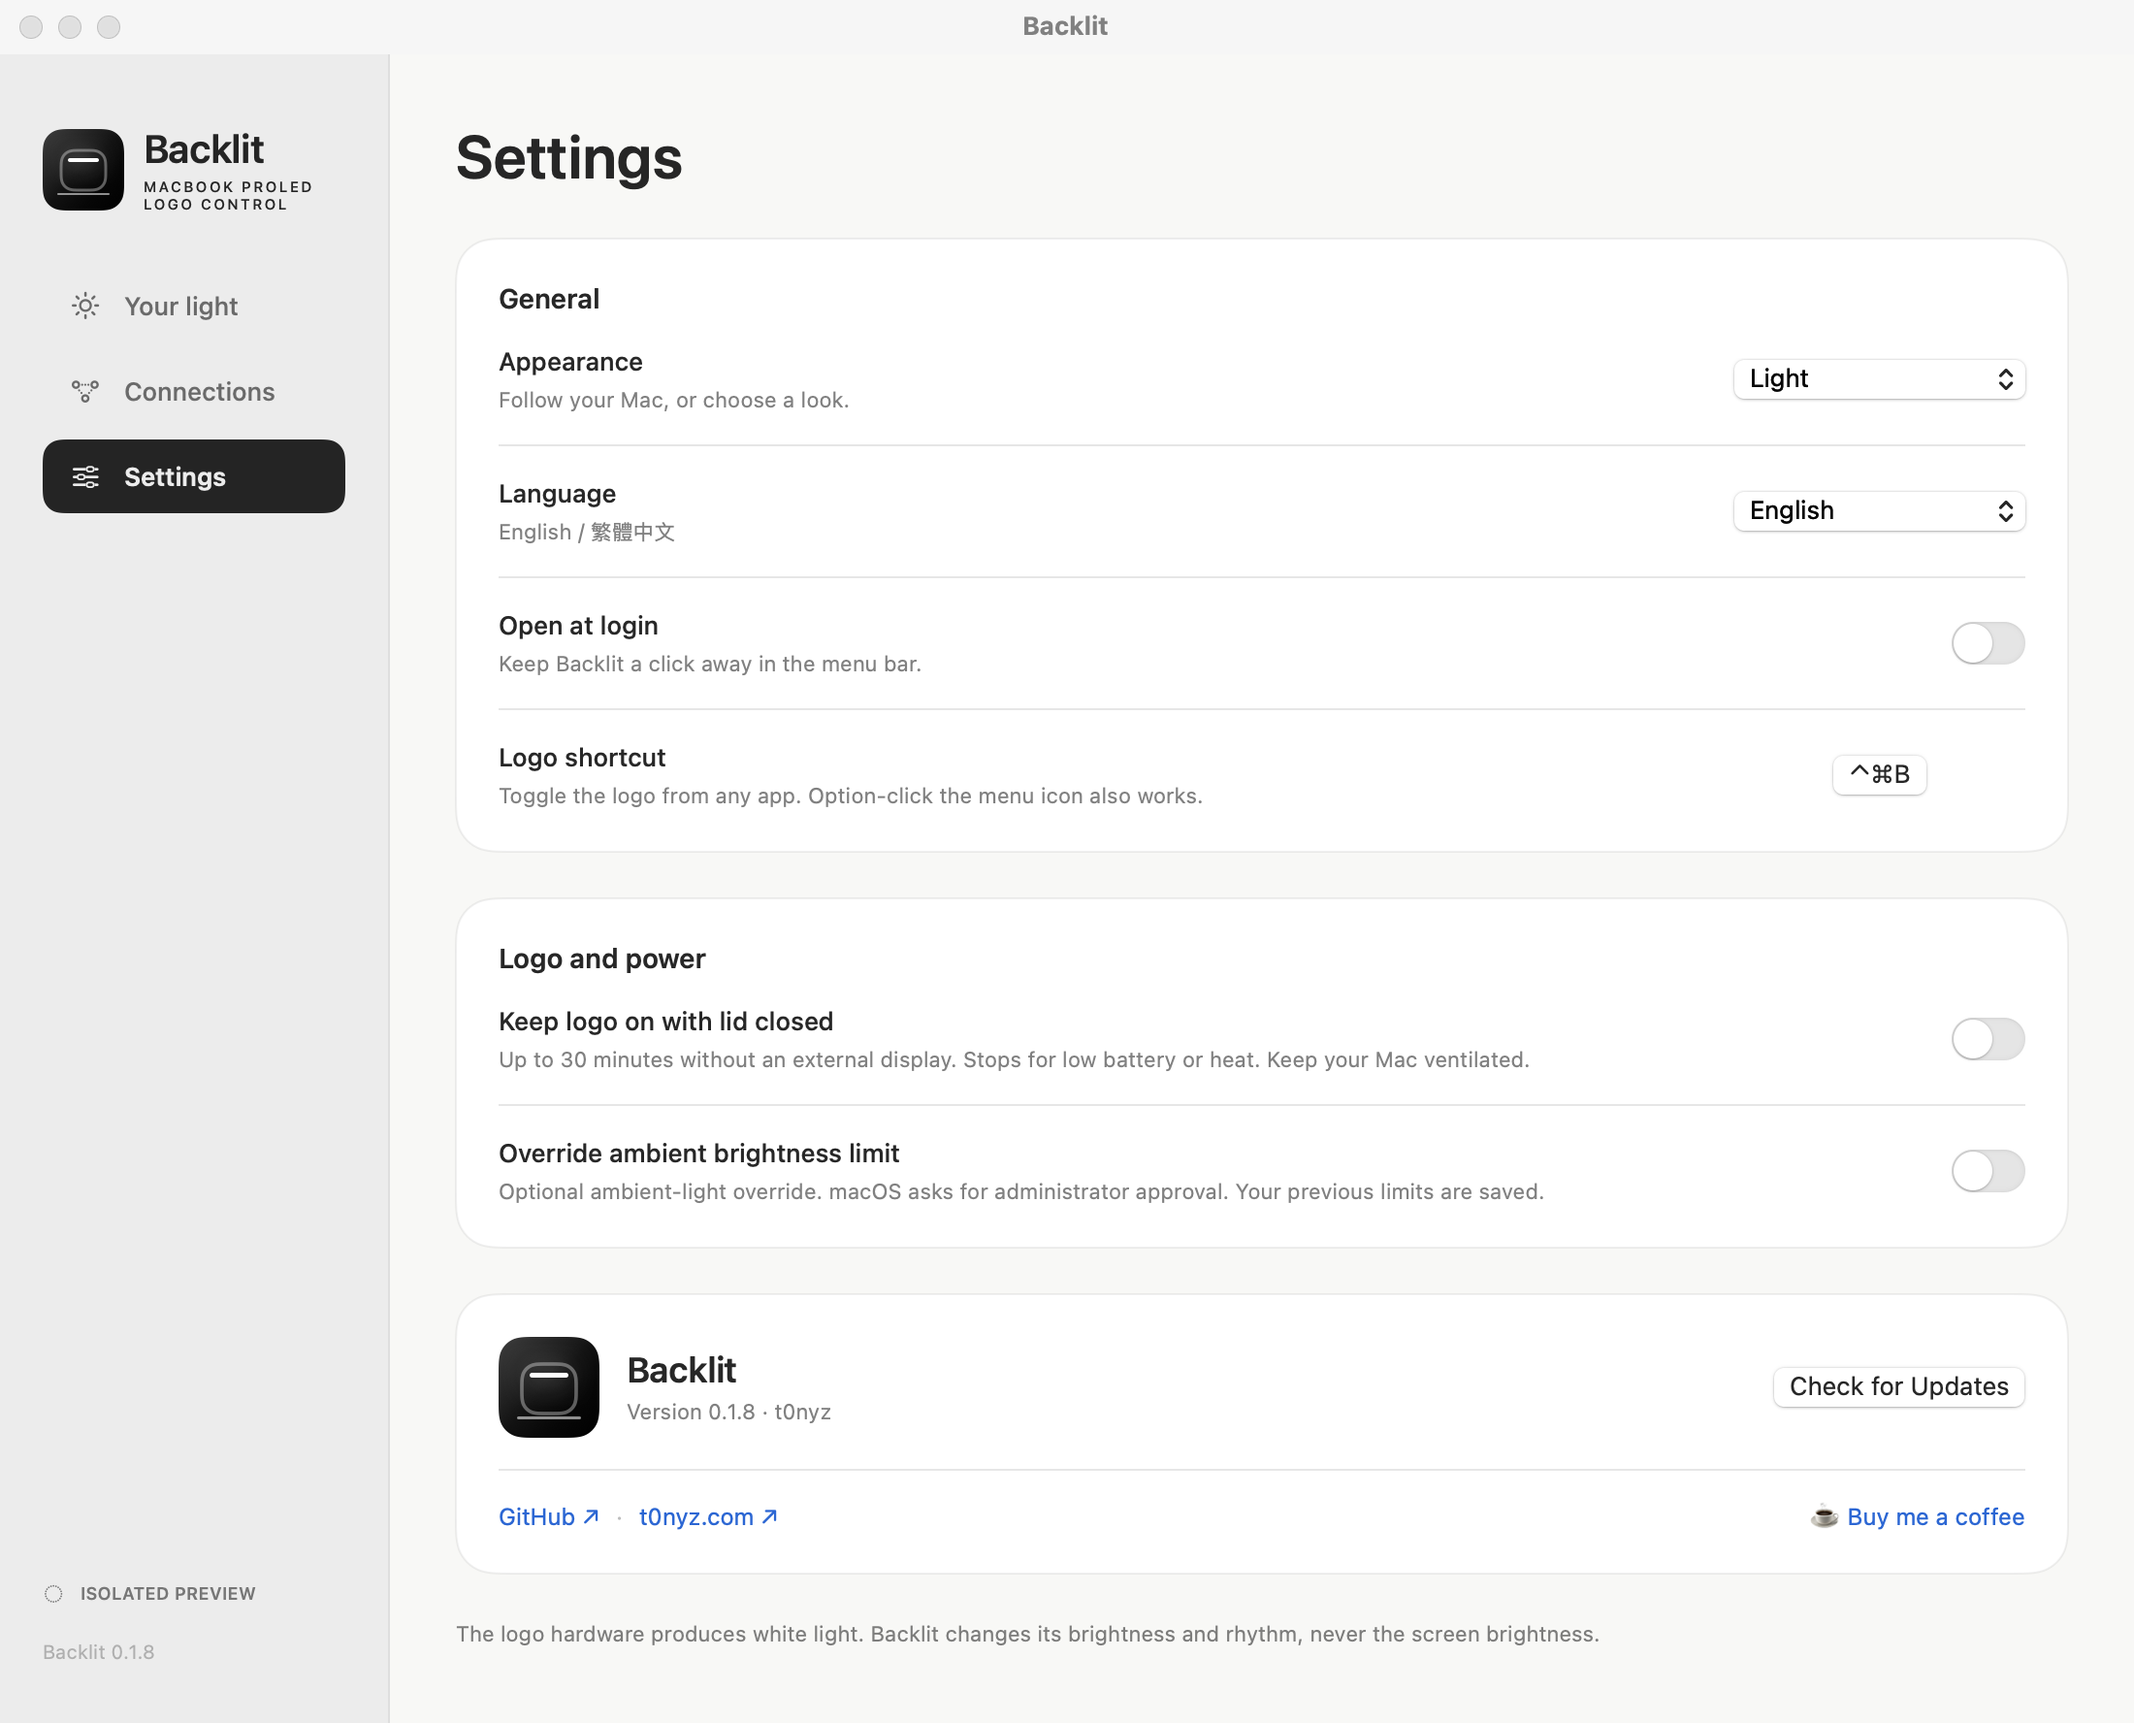
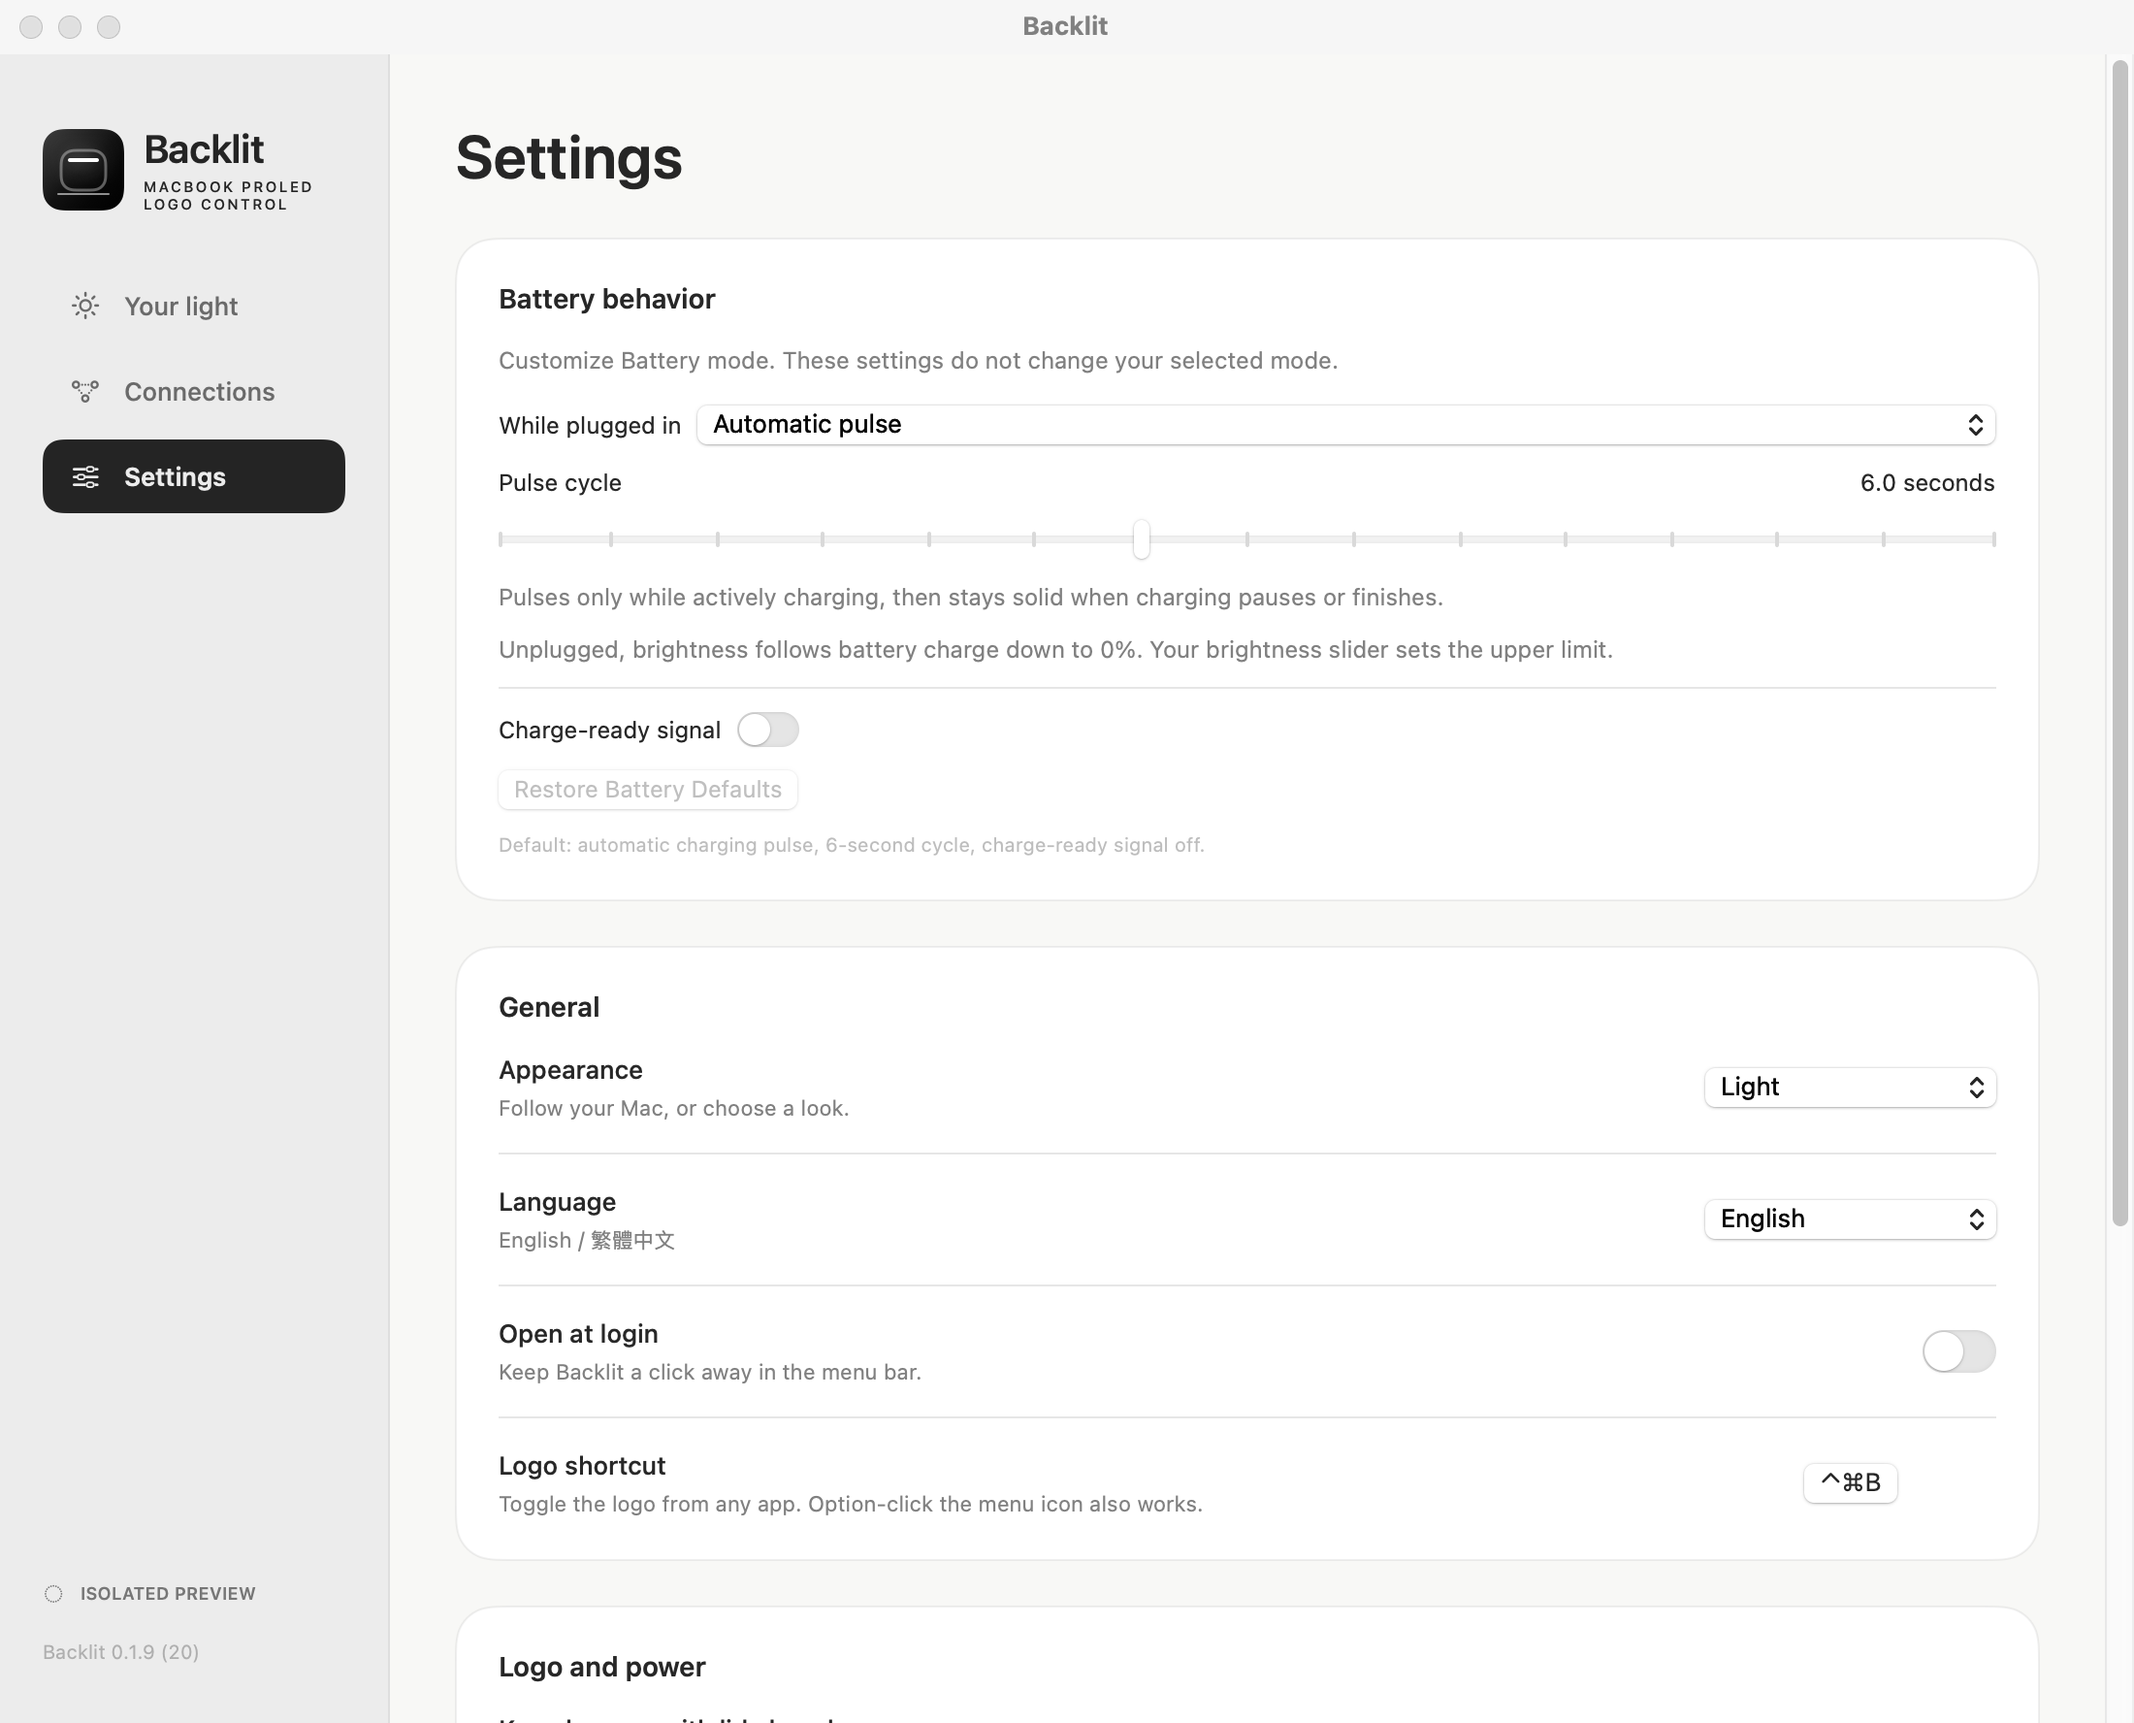
Prepare v0.1.9 Battery customization release

diff --git a/Sources/Backlit/Views.swift b/Sources/Backlit/Views.swift
@@ -67,7 +67,7 @@ struct RootView: View {
                 Spacer()
                 VStack(alignment:.leading,spacing:8) {
                     Label(model.demo ? "ISOLATED PREVIEW" : model.controlling ? "LOGO CONNECTED" : "PREVIEW MODE",systemImage:model.controlling ? "checkmark.circle.fill" : "circle.dotted").font(.system(size:9,weight:.semibold)).foregroundStyle(.secondary)
-                    Text("Backlit 0.1.8 (19)").font(.system(size:10)).foregroundStyle(.tertiary).padding(.top,10)
+                    Text("Backlit 0.1.9 (20)").font(.system(size:10)).foregroundStyle(.tertiary).padding(.top,10)
                 }.padding(.bottom,8)
             }.padding(22).frame(width:200).background(Color(nsColor:.windowBackgroundColor))
             Divider()
@@ -246,7 +246,7 @@ struct SettingsPage: View {
             }
         }
         Surface {
-            HStack(spacing:14) {BrandGlyph(size:52);VStack(alignment:.leading,spacing:4){Text("Backlit").font(.system(size:18,weight:.semibold));Text("Version 0.1.8 · build 19 · t0nyz").font(.system(size:11)).foregroundStyle(.secondary)};Spacer();Button("Check for Updates"){NSWorkspace.shared.open(URL(string:"https://github.com/t0nyz0/Backlit/releases")!)}}
+            HStack(spacing:14) {BrandGlyph(size:52);VStack(alignment:.leading,spacing:4){Text("Backlit").font(.system(size:18,weight:.semibold));Text("Version 0.1.9 · build 20 · t0nyz").font(.system(size:11)).foregroundStyle(.secondary)};Spacer();Button("Check for Updates"){NSWorkspace.shared.open(URL(string:"https://github.com/t0nyz0/Backlit/releases")!)}}
             Divider()
             HStack {Link("GitHub ↗",destination:URL(string:"https://github.com/t0nyz0/Backlit")!);Text("·").foregroundStyle(.tertiary);Link("t0nyz.com ↗",destination:URL(string:"https://t0nyz.com")!);Spacer();Link("☕ Buy me a coffee",destination:URL(string:"https://buymeacoffee.com/tonyz")!)}.font(.system(size:12))
         }

diff --git a/Sources/Backlit/AppModel.swift b/Sources/Backlit/AppModel.swift
@@ -402,7 +402,7 @@ import Combine
         catch { self.error = error.localizedDescription }
     }
     func apiState() -> [String:Any] {
-        ["id":id,"name":"Backlit","version":"0.1.8","enabled":enabled,"brightness":Int((Effects.clamp(brightness)*255).rounded()),
+        ["id":id,"name":"Backlit","version":"0.1.9","enabled":enabled,"brightness":Int((Effects.clamp(brightness)*255).rounded()),
          "effect":mode.title,"effects":availableModes.map(\.title),"battery":Int((battery*100).rounded()),
          "charging":charging,"actively_charging":activelyCharging,"battery_available":batteryAvailable,"agent_state":agents.isEmpty ? "no_recent_signals" : agentState.rawValue,
          "agent_sessions":agents.count,"hardware_supported":device.available,"controlling":controlling,

diff --git a/docs/RELEASE.md b/docs/RELEASE.md
@@ -1,7 +1,12 @@
-Backlit is a native MacBook PROLED logo-control source preview with original branding and interface.
+Backlit v0.1.9 adds Battery behavior customization while keeping automatic charging behavior as the default.
 
-Includes Steady, Breathe, Battery, Music, Agents, Trackpad behavior, a compact menu preview, an output-responsive outlined status icon, and an optional Home Assistant integration. Whole mode rows are clickable. Preferences are preserved across local updates.
+- Automatic pulse while actively charging, steady light while plugged in but not charging, and charge-level brightness while unplugged.
+- Choose Automatic pulse, Steady, or Match battery level while plugged in, and adjust the pulse cycle.
+- Optional charge-ready signals with a configurable threshold, style, and duration. They are off by default.
+- Battery controls in Your light and Settings, plus Restore Battery Defaults. Existing preferences are preserved.
 
-The ZIP and drag-to-Applications DMG are compiled on Apple silicon. The source package is an allowlisted snapshot without private research or Git history. BUILD-INFO.json records the exact source commit and signing status; SHA256SUMS.txt covers the packages.
+Backlit is a native MacBook PROLED logo-control source preview with original branding and interface. It also includes Steady, Breathe, Music, Agents, and Trackpad behaviors, plus an optional Home Assistant integration.
 
-This preview is ad-hoc signed. It is not Developer ID signed or notarized. Global screen touch is unavailable. Codex, login, administrator brightness overrides, closed-lid behavior, click accents, and optical latency retain separate verification gates. See docs/VALIDATION.md in the source package.
+The ZIP and drag-to-Applications DMG are compiled on Apple silicon. The source package is an allowlisted snapshot without private research or Git history. BUILD-INFO.json records the exact source commit and signing status; SHA256SUMS.txt covers the packages. Quit any running Backlit before replacing the app in Applications.
+
+This preview is ad-hoc signed, not Developer ID signed or notarized. Active-charging pulse was checked on the local Mac. Full/paused-charge and unplugged states are covered by automated tests, but their physical behavior remains unverified. Global screen touch is unavailable. Codex, login, administrator brightness overrides, closed-lid behavior, click accents, and optical latency retain separate verification gates. See docs/VALIDATION.md in the source package.

diff --git a/docs/VALIDATION.md b/docs/VALIDATION.md
@@ -1,6 +1,6 @@
 # Backlit validation
 
-Version: **0.1.8**, build 19. This is an early source preview. Release source metadata and artifact checksums are in `BUILD-INFO.json` and `SHA256SUMS.txt`. Test and package results are available in [GitHub Actions](https://github.com/t0nyz0/Backlit/actions).
+Version: **0.1.9**, build 20. This is an early source preview. Release source metadata and artifact checksums are in `BUILD-INFO.json` and `SHA256SUMS.txt`. Test and package results are available in [GitHub Actions](https://github.com/t0nyz0/Backlit/actions).
 
 ## Automated checks
 
@@ -16,6 +16,7 @@ Screenshots use the production native views in isolated preview mode. They are v
 | Feature | Remaining checks |
 | --- | --- |
 | Hardware control | Other hardware and operating-system variants; optical brightness and latency. Private interfaces may change. Service readback is not an optical measurement. |
+| Battery | Active-charging pulse was checked on the local Mac. Full/paused-charge and unplugged transitions are covered by automated tests, but physical checks of those states remain unverified. |
 | Music | Multiple playback sources/devices, protected audio, latency, and sustained resource use. Core Audio is used on macOS 14.2+; macOS 14.0–14.1 uses an audio-only ScreenCaptureKit fallback. |
 | Coding agents | Codex live-session compatibility; hook review/trust must be granted in Codex. |
 | Login launch | Actual login/reboot behavior after opt-in. |

diff --git a/README.md b/README.md
@@ -2,7 +2,7 @@
 <h1 align="center">Backlit</h1>
 <p align="center">MacBook PROLED logo light control for macOS.</p>
 <p align="center">
-<img src="https://img.shields.io/badge/source-v0.1.8-9a7400?style=flat" alt="Source v0.1.8">
+<img src="https://img.shields.io/badge/source-v0.1.9-9a7400?style=flat" alt="Source v0.1.9">
 <img src="https://img.shields.io/badge/local_tests-45_passing-2d6085?style=flat" alt="45 local tests passing">
 <img src="https://img.shields.io/badge/local_build-verified-55565f?style=flat" alt="Local build verified">
 <img src="https://img.shields.io/badge/macOS-14.0_target-55565f?style=flat" alt="macOS 14.0 target">
@@ -62,7 +62,7 @@ An optional [Home Assistant integration](docs/HOME-ASSISTANT.md) exposes a light
 
 <picture>
   <source media="(prefers-color-scheme: dark)" srcset="docs/media/settings-dark.png">
-  <img src="docs/media/settings-light.png" alt="Backlit settings: appearance, language, login launch, keyboard shortcut, closed-lid option, and brightness override">
+  <img src="docs/media/settings-light.png" alt="Backlit settings with Battery behavior customization, appearance, language, login launch, and keyboard shortcut">
 </picture>
 
 ## Install
